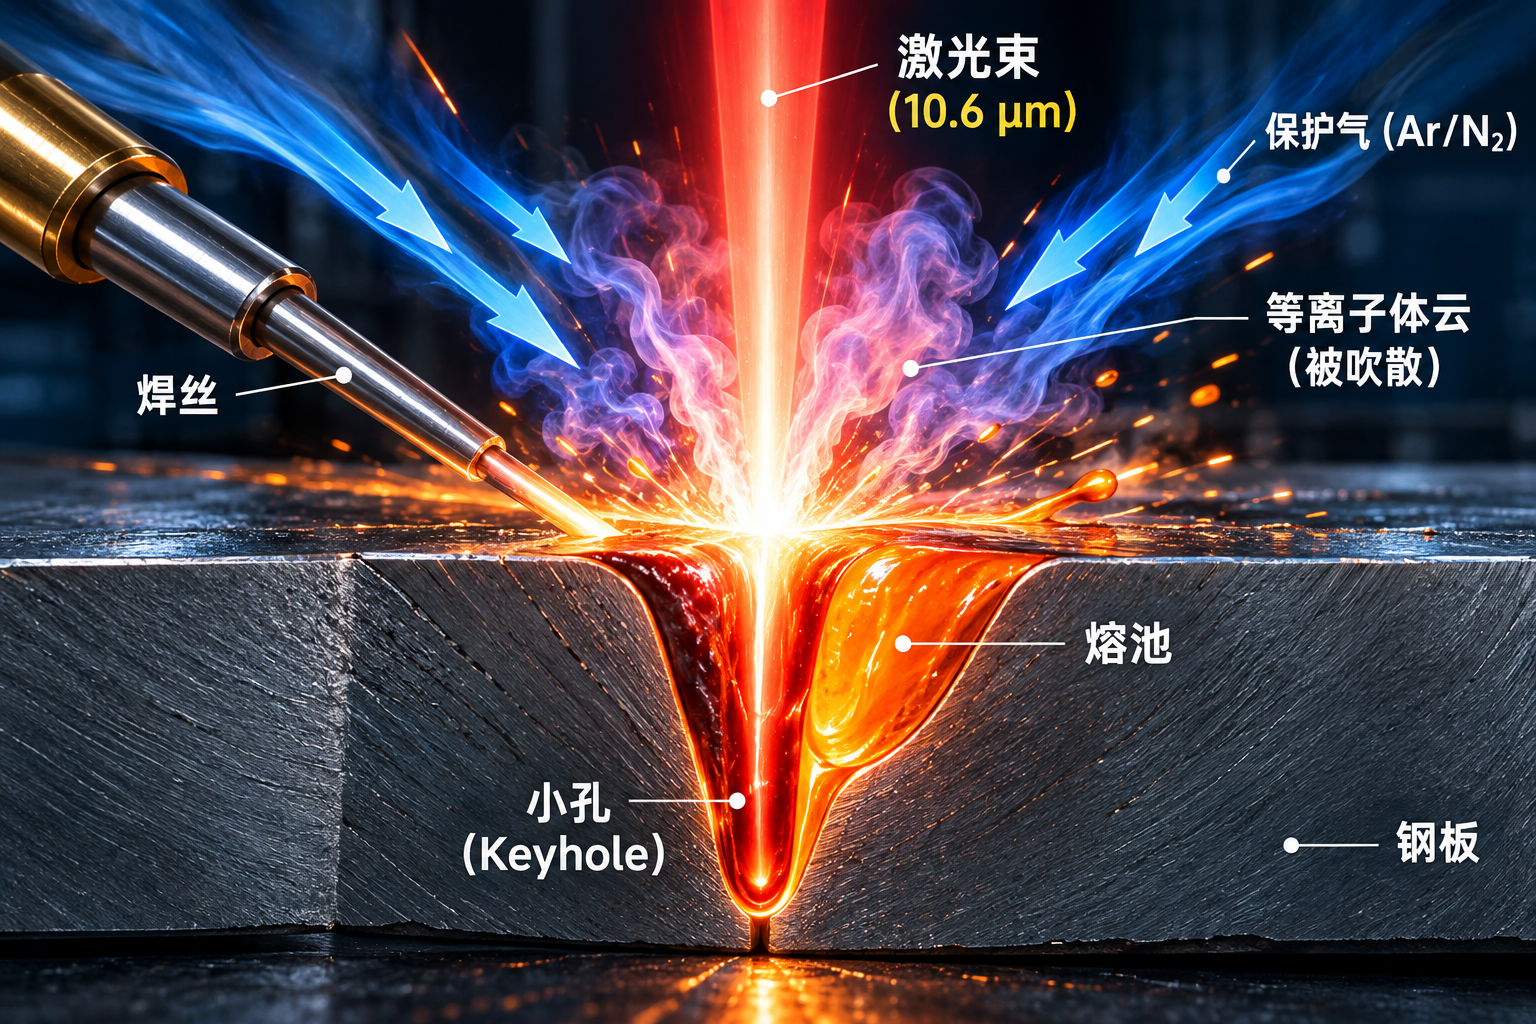
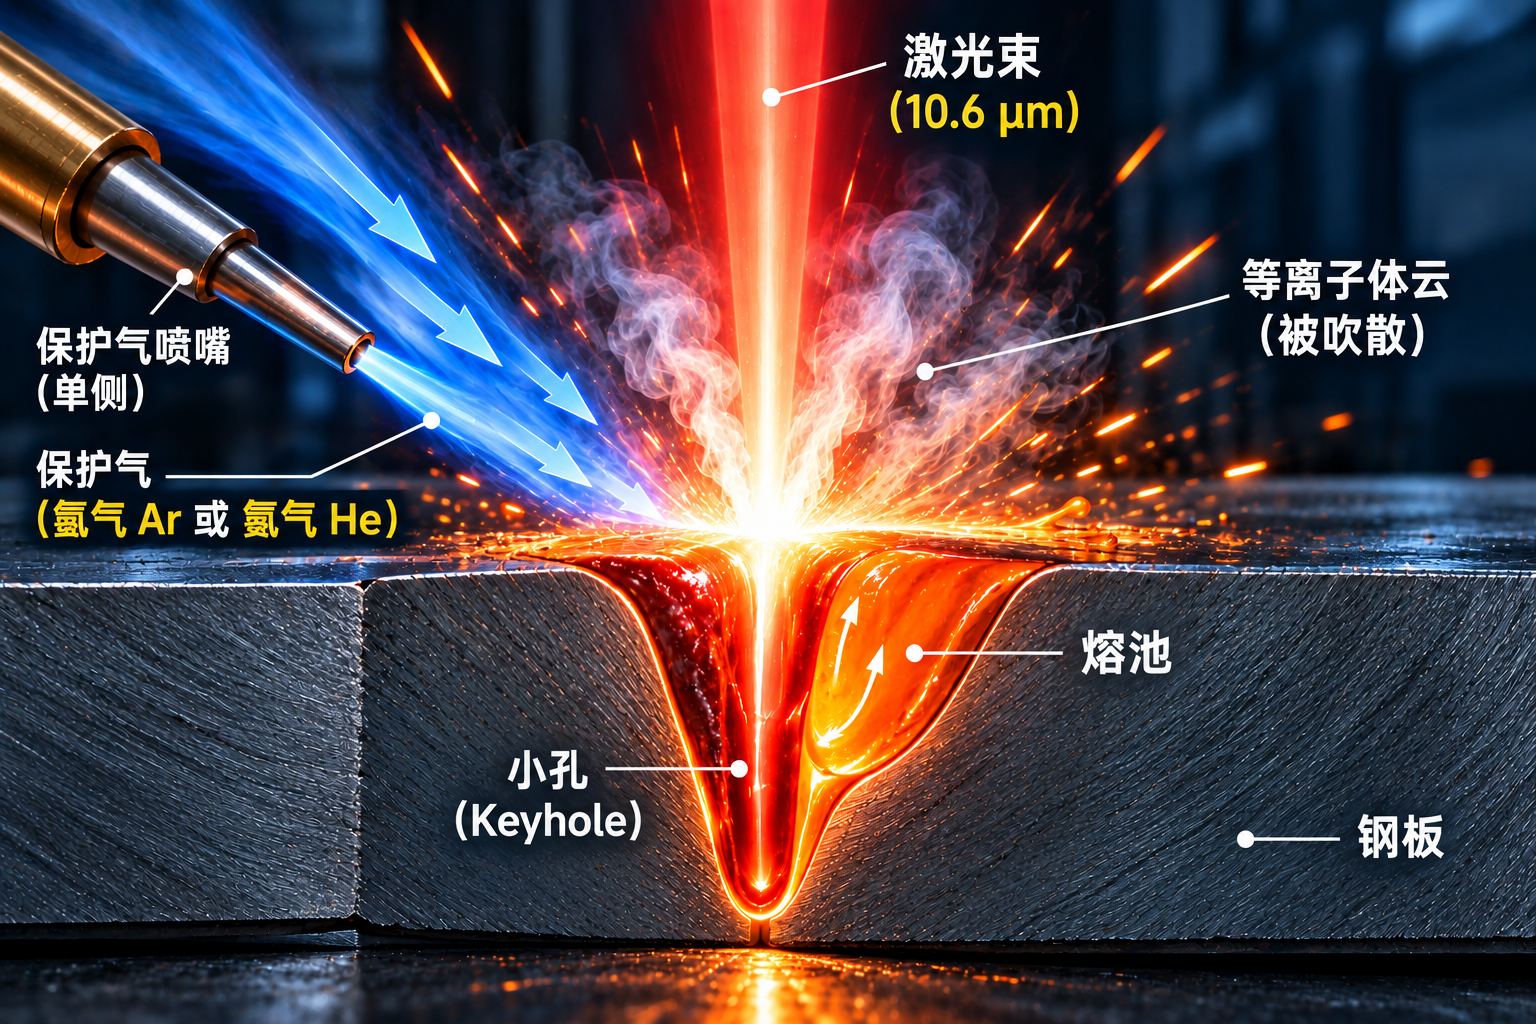
fix: update principles gallery protection gas illustrations

diff --git a/service-worker.js b/service-worker.js
@@ -1,4 +1,4 @@
-const CACHE_NAME = "welding-guide-home-v32";
+const CACHE_NAME = "welding-guide-home-v33";
 const APP_ROOT = new URL("./", self.location.href);
 const CORE_ASSETS = [
   "./css/laser-principles.css?v=9",
